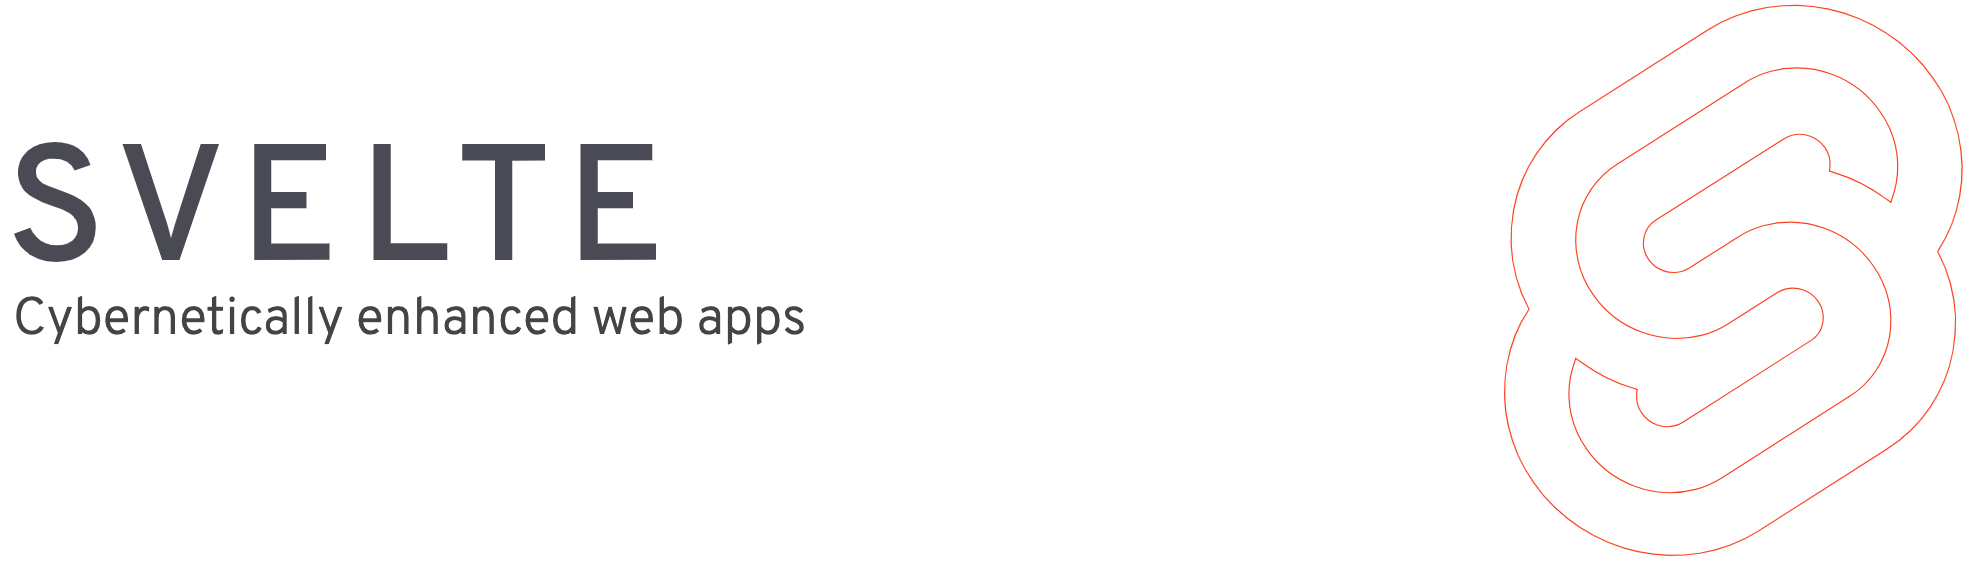
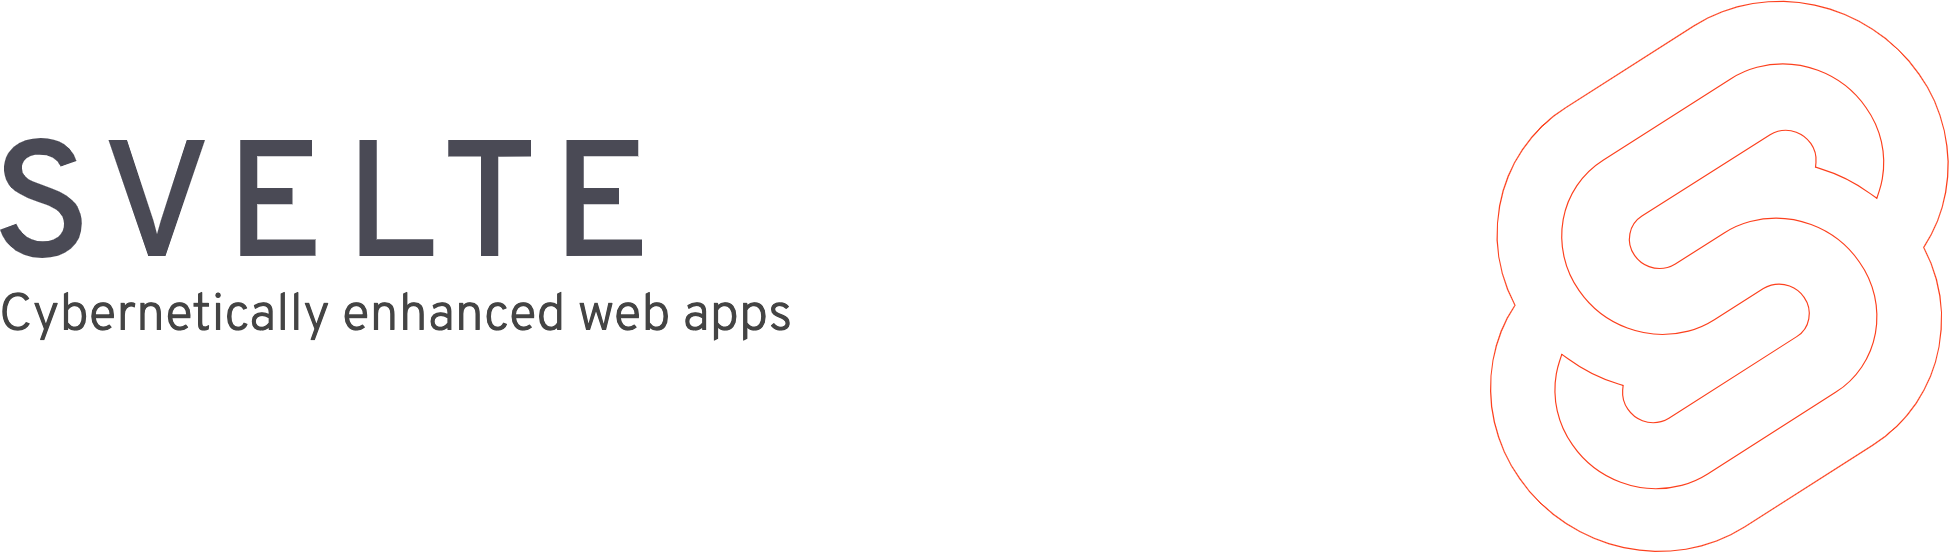
ditto

diff --git a/README.md b/README.md
@@ -1,6 +1,6 @@
 <p align="center">
   <a href="https://svelte.dev">
-	<img width="695" alt="Cybernetically enhanced web apps: Svelte" src="banner.png">
+	<img alt="Cybernetically enhanced web apps: Svelte" src="banner.png">
   </a>
 </p>
 
